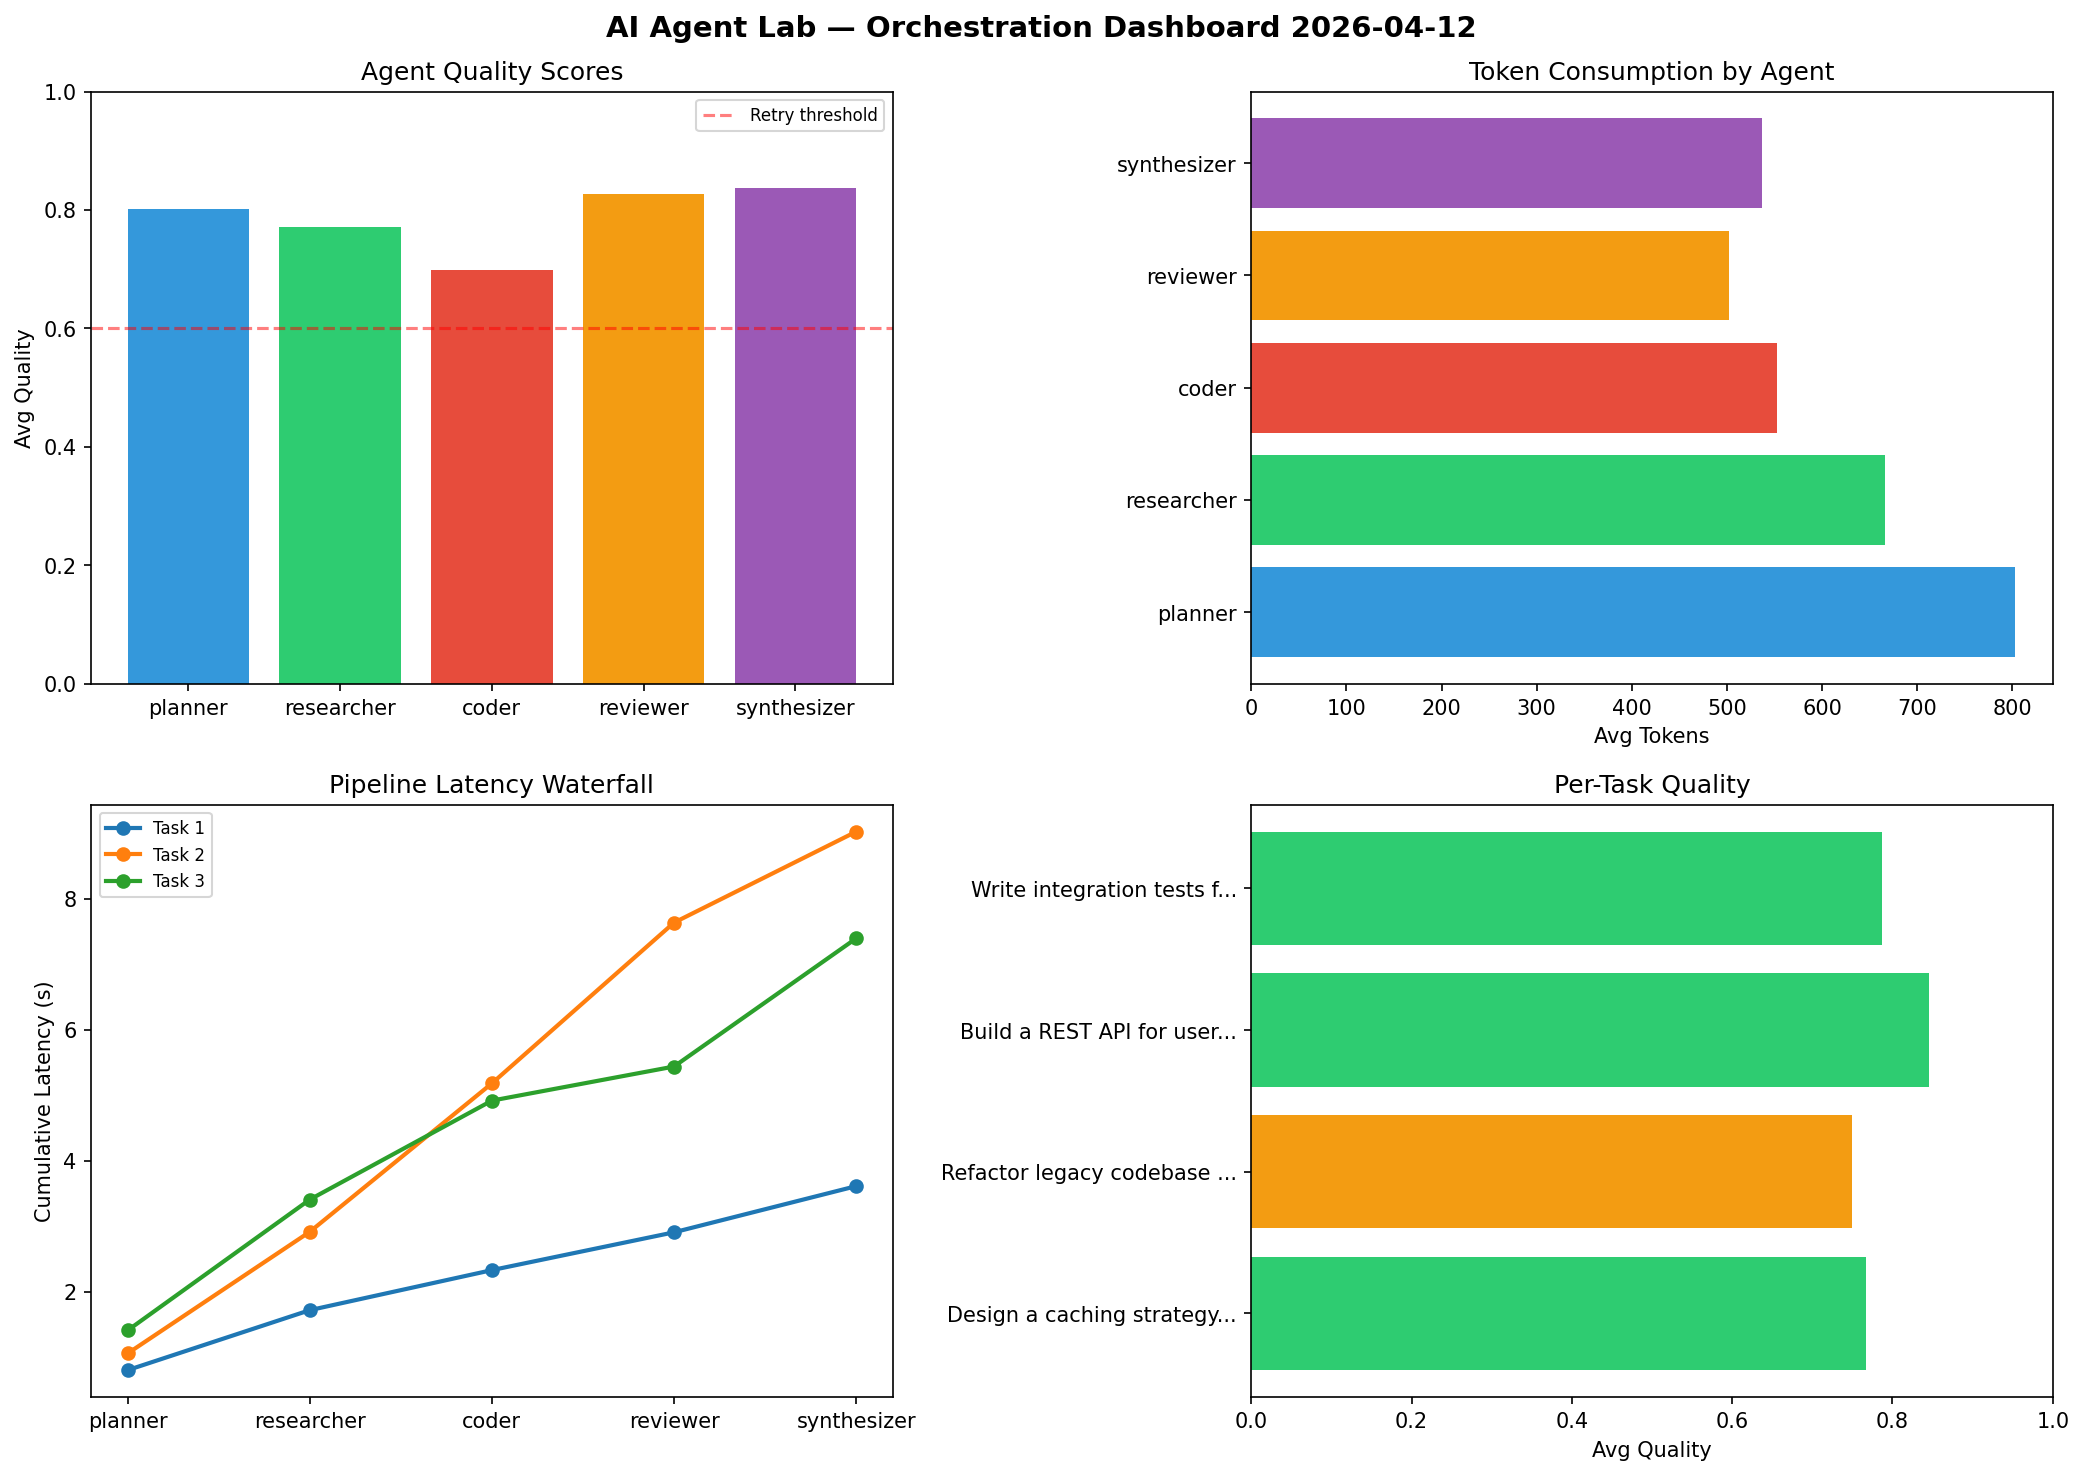
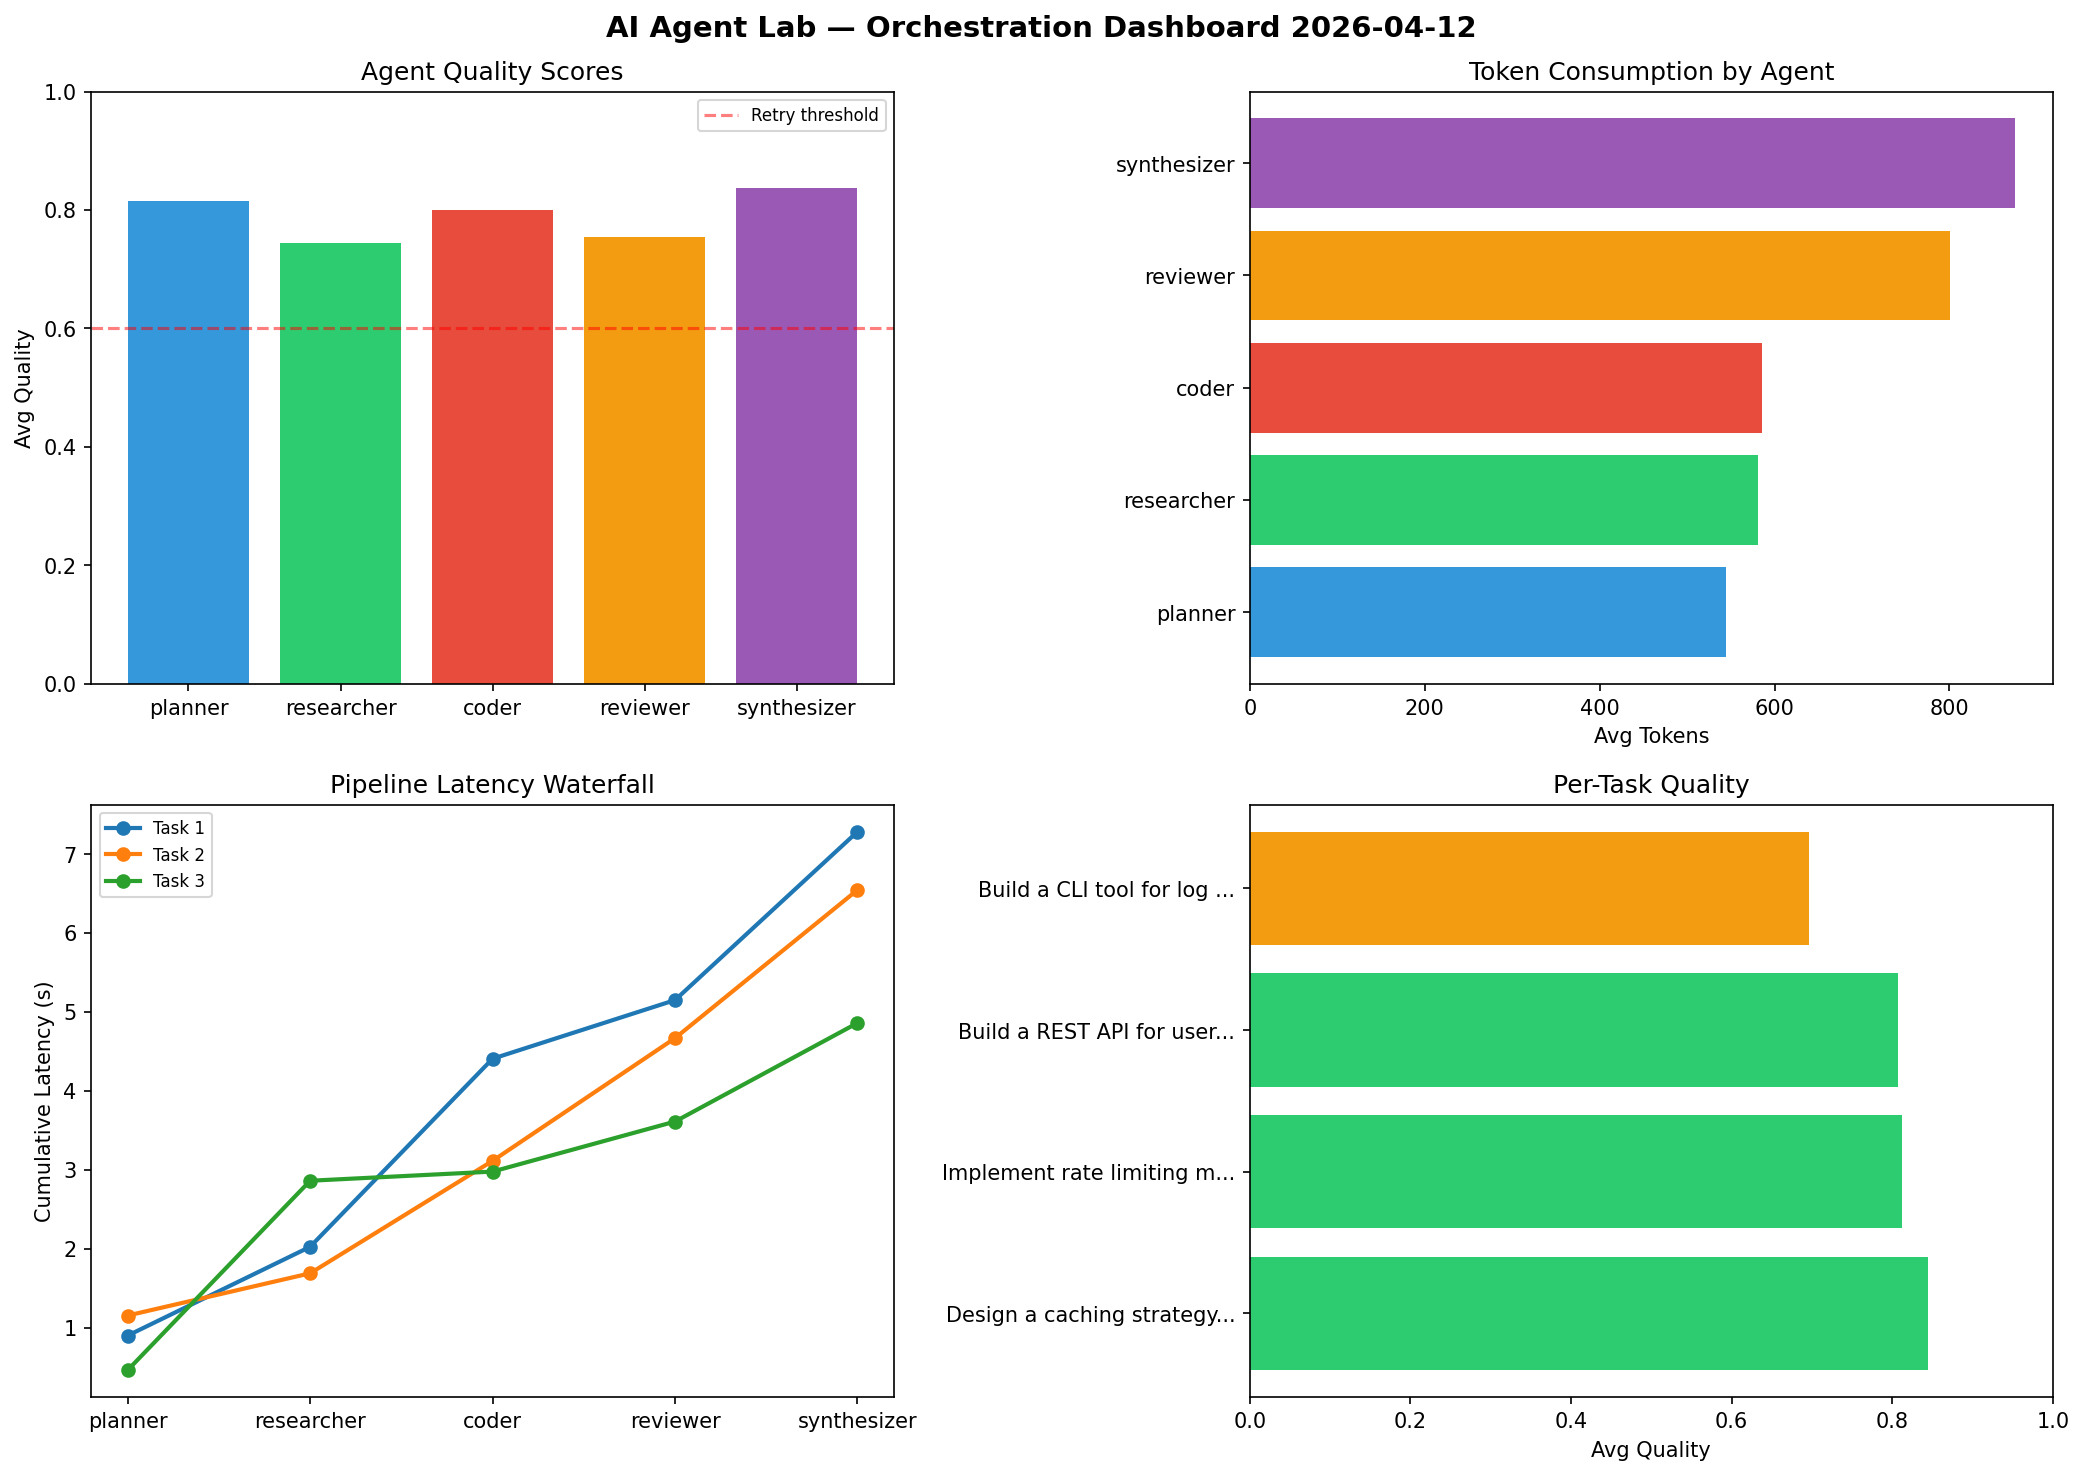
ai-agent-lab: orchestration run 2026-04-12T20:56

diff --git a/logs/2026-04-12.md b/logs/2026-04-12.md
@@ -1,6 +1,6 @@
 # AI Agent Lab — Orchestration Report 2026-04-12
 
-**Run ID:** `42aae4f3e2` | **Tasks:** 4 | **Avg Quality:** 0.787
+**Run ID:** `85000628b2` | **Tasks:** 4 | **Avg Quality:** 0.79
 
 ![Dashboard](2026-04-12_dashboard.png)
 
@@ -8,52 +8,52 @@
 
 | Metric | Value |
 |--------|-------|
-| avg_latency | 6.296 |
-| total_tokens | 12243 |
-| avg_quality | 0.787 |
+| avg_latency | 6.008 |
+| total_tokens | 13546 |
+| avg_quality | 0.79 |
 
 ## Delta vs Yesterday
 
 | Metric | Today | Yesterday | Change |
 |--------|-------|-----------|--------|
-| avg_latency | 6.296 | 6.151 | 📈 2.4% |
-| total_tokens | 12243 | 14019 | 📉 -12.7% |
-| avg_quality | 0.787 | 0.635 | 📈 23.9% |
+| avg_latency | 6.008 | 6.151 | 📉 -2.3% |
+| total_tokens | 13546 | 14019 | 📉 -3.4% |
+| avg_quality | 0.79 | 0.635 | 📈 24.4% |
 
 ## Pipeline Results
 
 ### Design a caching strategy for high-traffic endpoints
 | Agent | Quality | Latency | Tokens | Status |
 |-------|---------|---------|--------|--------|
-| planner | 0.788 | 0.806s | 599 | success |
-| researcher | 0.702 | 0.915s | 614 | success |
-| coder | 0.805 | 0.611s | 562 | success |
-| reviewer | 0.837 | 0.577s | 524 | success |
-| synthesizer | 0.705 | 0.704s | 933 | success |
+| planner | 0.832 | 0.898s | 488 | success |
+| researcher | 0.952 | 1.125s | 863 | success |
+| coder | 0.758 | 2.383s | 428 | success |
+| reviewer | 0.762 | 0.743s | 549 | success |
+| synthesizer | 0.917 | 2.134s | 1072 | success |
 
-### Refactor legacy codebase to use dependency injection
+### Implement rate limiting middleware
 | Agent | Quality | Latency | Tokens | Status |
 |-------|---------|---------|--------|--------|
-| planner | 0.785 | 1.061s | 659 | success |
-| researcher | 0.781 | 1.855s | 776 | success |
-| coder | 0.534 | 2.265s | 559 | needs_retry |
-| reviewer | 0.802 | 2.452s | 530 | success |
-| synthesizer | 0.841 | 1.388s | 340 | success |
+| planner | 0.896 | 1.152s | 693 | success |
+| researcher | 0.677 | 0.535s | 662 | success |
+| coder | 0.809 | 1.425s | 390 | success |
+| reviewer | 0.696 | 1.555s | 1123 | success |
+| synthesizer | 0.984 | 1.878s | 838 | success |
 
 ### Build a REST API for user authentication
 | Agent | Quality | Latency | Tokens | Status |
 |-------|---------|---------|--------|--------|
-| planner | 0.656 | 1.412s | 856 | success |
-| researcher | 0.961 | 1.996s | 207 | success |
-| coder | 0.875 | 1.51s | 379 | success |
-| reviewer | 0.758 | 0.52s | 510 | success |
-| synthesizer | 0.979 | 1.955s | 482 | success |
+| planner | 0.919 | 0.46s | 338 | success |
+| researcher | 0.589 | 2.4s | 261 | needs_retry |
+| coder | 0.966 | 0.116s | 669 | success |
+| reviewer | 0.997 | 0.634s | 938 | success |
+| synthesizer | 0.562 | 1.249s | 462 | needs_retry |
 
-### Write integration tests for payment processing module
+### Build a CLI tool for log analysis
 | Agent | Quality | Latency | Tokens | Status |
 |-------|---------|---------|--------|--------|
-| planner | 0.979 | 0.733s | 1096 | success |
-| researcher | 0.639 | 1.66s | 1068 | success |
-| coder | 0.582 | 1.23s | 712 | needs_retry |
-| reviewer | 0.91 | 0.355s | 445 | success |
-| synthesizer | 0.826 | 1.181s | 392 | success |
+| planner | 0.613 | 1.54s | 660 | success |
+| researcher | 0.76 | 0.779s | 537 | success |
+| coder | 0.668 | 1.316s | 854 | success |
+| reviewer | 0.562 | 0.962s | 595 | needs_retry |
+| synthesizer | 0.883 | 0.75s | 1126 | success |
